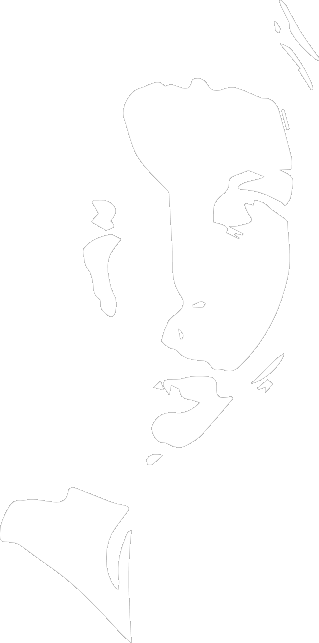
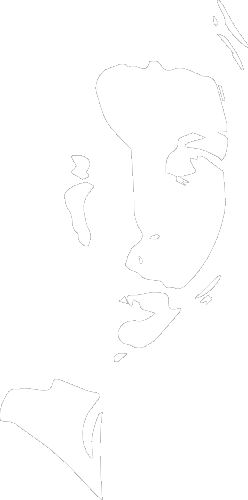
dc

diff --git a/css/photos.css b/css/photos.css
@@ -1,1 +1,1 @@
-.version.photos{color:#000012;background-color:#58CCB8;}#muse_css_mq{background-color:#FFFFFF;}#page{z-index:1;min-height:1438px;background-image:none;border-width:0px;border-color:#000000;background-color:transparent;width:100%;margin-left:auto;margin-right:auto;}#u3546-4{z-index:2;width:795px;min-height:75px;text-shadow:0px 0px 8px rgba(0,0,0,0.43);box-shadow:none;background-color:transparent;color:#FFFFFF;line-height:47px;font-size:39px;text-align:center;font-family:Verdana, Tahoma, Geneva, sans-serif;position:fixed;top:931px;left:50%;margin-left:-399px;}#u3550{z-index:6;width:773px;height:9px;background-color:#FFFFFF;border-radius:20px;position:fixed;top:1016px;left:50%;margin-left:-388px;}#u3787{z-index:7;width:60px;min-height:30px;border-width:0px;border-color:transparent;background-color:transparent;position:fixed;top:98px;left:50%;margin-left:-244px;}#u3788{z-index:8;width:50px;min-height:25px;border-width:0px;border-color:transparent;background-color:transparent;position:fixed;top:100px;left:50%;margin-left:-312px;}#u3797{z-index:9;width:875px;height:1342px;position:fixed;top:20px;left:50%;margin-left:-428px;}.ie #u3797{background-color:#FFFFFF;opacity:0.01;-ms-filter:"progid:DXImageTransform.Microsoft.Alpha(Opacity=1)";filter:alpha(opacity=1);}#u4406{z-index:10;width:681px;height:71px;border-style:solid;border-width:9px;border-color:#FFFFFF;background-color:transparent;border-radius:27px;position:fixed;top:912px;left:50%;margin-left:-349px;}#u8259{z-index:11;width:181px;-webkit-transition-duration:1s;-webkit-transition-delay:0s;-webkit-transition-timing-function:ease;transition-duration:1s;transition-delay:0s;transition-timing-function:ease;background-image:url("../images/blank.gif?crc=4208392903");background-color:transparent;position:fixed;top:1116px;left:50%;margin-left:-275px;}#u8259:hover{-webkit-transition-duration:1s;-webkit-transition-delay:0s;-webkit-transition-timing-function:ease;transition-duration:1s;transition-delay:0s;transition-timing-function:ease;opacity:0.2;-ms-filter:"progid:DXImageTransform.Microsoft.Alpha(Opacity=20)";filter:alpha(opacity=20);width:181px;min-height:0px;margin:0px 0px 0px -275px;}#u8259:active{-webkit-transition-duration:1s;-webkit-transition-delay:0s;-webkit-transition-timing-function:ease;transition-duration:1s;transition-delay:0s;transition-timing-function:ease;opacity:0.2;-ms-filter:"progid:DXImageTransform.Microsoft.Alpha(Opacity=20)";filter:alpha(opacity=20);width:181px;min-height:0px;margin:0px 0px 0px -275px;}#u8260{z-index:12;display:block;}#u8310{z-index:13;width:75px;-webkit-transition-duration:1s;-webkit-transition-delay:0s;-webkit-transition-timing-function:ease;transition-duration:1s;transition-delay:0s;transition-timing-function:ease;background-image:url("../images/blank.gif?crc=4208392903");background-color:transparent;-webkit-transform:matrix(-0.0349,-0.9994,0.9994,-0.0349,1,76);-ms-transform:matrix(-0.0349,-0.9994,0.9994,-0.0349,1,76);transform:matrix(-0.0349,-0.9994,0.9994,-0.0349,1,76);position:fixed;top:1254px;left:50%;margin-left:-404px;}#u8310:hover{-webkit-transition-duration:1s;-webkit-transition-delay:0s;-webkit-transition-timing-function:ease;transition-duration:1s;transition-delay:0s;transition-timing-function:ease;opacity:0.2;-ms-filter:"progid:DXImageTransform.Microsoft.Alpha(Opacity=20)";filter:alpha(opacity=20);width:75px;min-height:0px;margin:0px 0px 0px -404px;}#u8310:active{-webkit-transition-duration:1s;-webkit-transition-delay:0s;-webkit-transition-timing-function:ease;transition-duration:1s;transition-delay:0s;transition-timing-function:ease;opacity:0.2;-ms-filter:"progid:DXImageTransform.Microsoft.Alpha(Opacity=20)";filter:alpha(opacity=20);width:75px;min-height:0px;margin:0px 0px 0px -404px;}#u8311{z-index:14;display:block;}#u8292{z-index:15;width:113px;-webkit-transition-duration:1s;-webkit-transition-delay:0s;-webkit-transition-timing-function:ease;transition-duration:1s;transition-delay:0s;transition-timing-function:ease;background-image:url("../images/blank.gif?crc=4208392903");background-color:transparent;-webkit-transform:matrix(-0.9945,0.1045,-0.1045,-0.9945,119,107);-ms-transform:matrix(-0.9945,0.1045,-0.1045,-0.9945,119,107);transform:matrix(-0.9945,0.1045,-0.1045,-0.9945,119,107);position:fixed;top:1083px;left:50%;margin-left:284px;}#u8292:hover{-webkit-transition-duration:1s;-webkit-transition-delay:0s;-webkit-transition-timing-function:ease;transition-duration:1s;transition-delay:0s;transition-timing-function:ease;opacity:0.2;-ms-filter:"progid:DXImageTransform.Microsoft.Alpha(Opacity=20)";filter:alpha(opacity=20);width:113px;min-height:0px;margin:0px 0px 0px 284px;}#u8292:active{-webkit-transition-duration:1s;-webkit-transition-delay:0s;-webkit-transition-timing-function:ease;transition-duration:1s;transition-delay:0s;transition-timing-function:ease;opacity:0.2;-ms-filter:"progid:DXImageTransform.Microsoft.Alpha(Opacity=20)";filter:alpha(opacity=20);width:113px;min-height:0px;margin:0px 0px 0px 284px;}#u8293{z-index:16;display:block;}#u8301{z-index:17;width:113px;-webkit-transition-duration:1s;-webkit-transition-delay:0s;-webkit-transition-timing-function:ease;transition-duration:1s;transition-delay:0s;transition-timing-function:ease;background-image:url("../images/blank.gif?crc=4208392903");background-color:transparent;-webkit-transform:matrix(0.6157,0.788,-0.788,0.6157,66,-23);-ms-transform:matrix(0.6157,0.788,-0.788,0.6157,66,-23);transform:matrix(0.6157,0.788,-0.788,0.6157,66,-23);position:fixed;top:1276px;left:50%;margin-left:51px;}#u8301:hover{-webkit-transition-duration:1s;-webkit-transition-delay:0s;-webkit-transition-timing-function:ease;transition-duration:1s;transition-delay:0s;transition-timing-function:ease;opacity:0.2;-ms-filter:"progid:DXImageTransform.Microsoft.Alpha(Opacity=20)";filter:alpha(opacity=20);width:113px;min-height:0px;margin:0px 0px 0px 51px;}#u8301:active{-webkit-transition-duration:1s;-webkit-transition-delay:0s;-webkit-transition-timing-function:ease;transition-duration:1s;transition-delay:0s;transition-timing-function:ease;opacity:0.2;-ms-filter:"progid:DXImageTransform.Microsoft.Alpha(Opacity=20)";filter:alpha(opacity=20);width:113px;min-height:0px;margin:0px 0px 0px 51px;}#u8302{z-index:18;display:block;}#u8433{z-index:19;width:300px;min-height:150px;border-width:0px;border-color:transparent;background-color:transparent;color:#FFFFFF;font-size:11px;line-height:13px;font-family:open-sans, sans-serif;font-weight:300;position:fixed;top:1048px;left:50%;margin-left:-58px;}#u8640{z-index:20;width:234px;background-color:transparent;position:fixed;top:150px;left:50%;margin-left:-328px;}#u8636{z-index:21;display:block;}#u8794{background-color:transparent;position:relative;left:-50%;margin-left:178px;width:100%;}#u8790{z-index:23;display:block;width:100%;}#u8794-wrapper{position:fixed;top:486px;z-index:22;left:50%;margin-left:-10px;width:30.69%;}.css_verticalspacer .verticalspacer{height:calc(100vh - 1438px);}.html{background-color:#FF0000;}body{position:relative;min-width:960px;}
+.version.photos{color:#0000E9;background-color:#6D90F7;}#muse_css_mq{background-color:#FFFFFF;}#page{z-index:1;min-height:1313px;background-image:none;border-width:0px;border-color:#000000;background-color:transparent;padding-top:98px;padding-bottom:207px;width:100%;margin-left:auto;margin-right:auto;}#pu3788{z-index:8;width:0.01px;margin-left:268px;}#u3788{z-index:8;width:50px;min-height:25px;border-width:0px;border-color:transparent;background-color:transparent;position:relative;margin-right:-10000px;margin-top:2px;}#u3787{z-index:7;width:60px;min-height:30px;border-width:0px;border-color:transparent;background-color:transparent;position:relative;margin-right:-10000px;left:68px;}#pu8601{z-index:19;margin-top:-3px;width:68.02%;margin-left:16%;}#u8601{z-index:19;width:236px;background-color:transparent;position:relative;margin-right:-10000px;margin-left:50%;left:-380.5px;}#u8597{z-index:20;display:block;}#u8612{z-index:21;width:357px;background-color:transparent;position:relative;margin-right:-10000px;margin-top:315px;margin-left:50%;left:52.5px;}#u8608{z-index:22;display:block;}#pu3546-4{z-index:2;margin-top:259px;width:68.54%;margin-left:15.74%;}#u3546-4{z-index:2;width:795px;min-height:71px;background-color:transparent;color:#FFFFFF;line-height:36px;font-size:30px;text-align:center;font-family:Verdana, Tahoma, Geneva, sans-serif;position:relative;margin-right:-10000px;margin-top:11px;margin-left:50%;left:-399.5px;}#u4406{z-index:9;width:419px;height:63px;border-style:solid;border-width:9px;border-color:#FFFFFF;background-color:transparent;border-radius:27px;position:relative;margin-right:-10000px;margin-top:-9px;margin-left:50%;left:-271.5px;}#u3550{z-index:6;width:773px;height:9px;background-color:#FFFFFF;border-radius:20px;margin-top:12px;position:relative;margin-left:50%;left:-388px;}#pu8310{z-index:12;margin-top:90px;width:67.59%;margin-left:16.21%;}#u8310{z-index:12;width:75px;-webkit-transition-duration:1s;-webkit-transition-delay:0s;-webkit-transition-timing-function:ease;transition-duration:1s;transition-delay:0s;transition-timing-function:ease;background-image:url("../images/blank.gif?crc=4208392903");background-color:transparent;-webkit-transform:matrix(-0.0349,-0.9994,0.9994,-0.0349,1,76);-ms-transform:matrix(-0.0349,-0.9994,0.9994,-0.0349,1,76);transform:matrix(-0.0349,-0.9994,0.9994,-0.0349,1,76);position:relative;margin-right:-10000px;margin-top:172px;margin-left:50%;left:-398px;}#u8310:hover{-webkit-transition-duration:1s;-webkit-transition-delay:0s;-webkit-transition-timing-function:ease;transition-duration:1s;transition-delay:0s;transition-timing-function:ease;opacity:0.2;-ms-filter:"progid:DXImageTransform.Microsoft.Alpha(Opacity=20)";filter:alpha(opacity=20);width:75px;min-height:0px;left:-398px;margin:172px -10000px 0px 50%;}#u8310:active{-webkit-transition-duration:1s;-webkit-transition-delay:0s;-webkit-transition-timing-function:ease;transition-duration:1s;transition-delay:0s;transition-timing-function:ease;opacity:0.2;-ms-filter:"progid:DXImageTransform.Microsoft.Alpha(Opacity=20)";filter:alpha(opacity=20);width:75px;min-height:0px;left:-398px;margin:172px -10000px 0px 50%;}#u8311{z-index:13;display:block;}#u8259{z-index:10;width:181px;-webkit-transition-duration:1s;-webkit-transition-delay:0s;-webkit-transition-timing-function:ease;transition-duration:1s;transition-delay:0s;transition-timing-function:ease;background-image:url("../images/blank.gif?crc=4208392903");background-color:transparent;position:relative;margin-right:-10000px;margin-top:52px;margin-left:50%;left:-279px;}#u8259:hover{-webkit-transition-duration:1s;-webkit-transition-delay:0s;-webkit-transition-timing-function:ease;transition-duration:1s;transition-delay:0s;transition-timing-function:ease;opacity:0.2;-ms-filter:"progid:DXImageTransform.Microsoft.Alpha(Opacity=20)";filter:alpha(opacity=20);width:181px;min-height:0px;left:-279px;margin:52px -10000px 0px 50%;}#u8259:active{-webkit-transition-duration:1s;-webkit-transition-delay:0s;-webkit-transition-timing-function:ease;transition-duration:1s;transition-delay:0s;transition-timing-function:ease;opacity:0.2;-ms-filter:"progid:DXImageTransform.Microsoft.Alpha(Opacity=20)";filter:alpha(opacity=20);width:181px;min-height:0px;left:-279px;margin:52px -10000px 0px 50%;}#u8260{z-index:11;display:block;}#pu8433{z-index:18;margin-right:-10000px;width:38.27%;margin-left:30.87%;}#u8433{z-index:18;width:300px;min-height:150px;border-width:0px;border-color:transparent;background-color:transparent;color:#FFFFFF;font-size:11px;line-height:13px;font-family:open-sans, sans-serif;font-weight:300;position:relative;margin-left:50%;left:-74px;}#u8301{z-index:16;width:113px;-webkit-transition-duration:1s;-webkit-transition-delay:0s;-webkit-transition-timing-function:ease;transition-duration:1s;transition-delay:0s;transition-timing-function:ease;background-image:url("../images/blank.gif?crc=4208392903");background-color:transparent;-webkit-transform:matrix(0.6157,0.788,-0.788,0.6157,66,-23);-ms-transform:matrix(0.6157,0.788,-0.788,0.6157,66,-23);transform:matrix(0.6157,0.788,-0.788,0.6157,66,-23);margin-top:74px;margin-bottom:23px;position:relative;margin-left:50%;left:52px;}#u8301:hover{-webkit-transition-duration:1s;-webkit-transition-delay:0s;-webkit-transition-timing-function:ease;transition-duration:1s;transition-delay:0s;transition-timing-function:ease;opacity:0.2;-ms-filter:"progid:DXImageTransform.Microsoft.Alpha(Opacity=20)";filter:alpha(opacity=20);width:113px;min-height:0px;left:52px;margin:74px 0px 23px 50%;}#u8301:active{-webkit-transition-duration:1s;-webkit-transition-delay:0s;-webkit-transition-timing-function:ease;transition-duration:1s;transition-delay:0s;transition-timing-function:ease;opacity:0.2;-ms-filter:"progid:DXImageTransform.Microsoft.Alpha(Opacity=20)";filter:alpha(opacity=20);width:113px;min-height:0px;left:52px;margin:74px 0px 23px 50%;}#u8302{z-index:17;display:block;}#u8292{z-index:14;width:113px;-webkit-transition-duration:1s;-webkit-transition-delay:0s;-webkit-transition-timing-function:ease;transition-duration:1s;transition-delay:0s;transition-timing-function:ease;background-image:url("../images/blank.gif?crc=4208392903");background-color:transparent;-webkit-transform:matrix(-0.9945,0.1045,-0.1045,-0.9945,119,107);-ms-transform:matrix(-0.9945,0.1045,-0.1045,-0.9945,119,107);transform:matrix(-0.9945,0.1045,-0.1045,-0.9945,119,107);position:relative;margin-right:-10000px;margin-top:30px;margin-left:50%;left:267px;}#u8292:hover{-webkit-transition-duration:1s;-webkit-transition-delay:0s;-webkit-transition-timing-function:ease;transition-duration:1s;transition-delay:0s;transition-timing-function:ease;opacity:0.2;-ms-filter:"progid:DXImageTransform.Microsoft.Alpha(Opacity=20)";filter:alpha(opacity=20);width:113px;min-height:0px;left:267px;margin:30px -10000px 0px 50%;}#u8292:active{-webkit-transition-duration:1s;-webkit-transition-delay:0s;-webkit-transition-timing-function:ease;transition-duration:1s;transition-delay:0s;transition-timing-function:ease;opacity:0.2;-ms-filter:"progid:DXImageTransform.Microsoft.Alpha(Opacity=20)";filter:alpha(opacity=20);width:113px;min-height:0px;left:267px;margin:30px -10000px 0px 50%;}#u8293{z-index:15;display:block;}.css_verticalspacer .verticalspacer{height:calc(100vh - 1661px);}.html{background-color:#FF0000;}body{position:relative;min-width:960px;padding-bottom:44px;}

diff --git a/photos.html b/photos.html
@@ -18,7 +18,7 @@ if(typeof Muse == "undefined") window.Muse = {}; window.Muse.assets = {"required
   <title>PHOTOS</title>
   <!-- CSS -->
   <link rel="stylesheet" type="text/css" href="css/site_global.css?crc=4162518342"/>
-  <link rel="stylesheet" type="text/css" href="css/photos.css?crc=307809464" id="pagesheet"/>
+  <link rel="stylesheet" type="text/css" href="css/photos.css?crc=3916271863" id="pagesheet"/>
   <!-- Other scripts -->
   <script type="text/javascript">
    var __adobewebfontsappname__ = "muse";
@@ -85,7 +85,7 @@ visibility: visible !important;
           position:absolute;
     left:50%;
     top:50%;
-  font-size: 13px;
+  font-size: 12px;
   -webkit-animation-delay: -0.16s;
   animation-delay: -0.16s;
 }
@@ -146,7 +146,7 @@ visibility: visible !important;
   animation: load2 2s infinite ease 1.5s;
 }
 .loader2 {
-  font-size: 13px;
+  font-size: 12px;
 
  margin-top: -5em;
     margin-left: -4.5em;
@@ -307,7 +307,7 @@ body { overflow: hidden;}
   z-index: 2000;
   top: 0;
   left: 0;
-  height: 13px;
+  height: 12px;
   overflow: hidden;
 
   -webkit-transition: width 1s;
@@ -441,7 +441,7 @@ z-index: 99999999;
   position: absolute;
   left: 3px;
   top: 3px;
-  height: 13px;
+  height: 12px;
   background: #FFFFFF;
   color: #FFFFFF;
   line-height: 60px;
@@ -473,7 +473,7 @@ z-index: 99999999;
   right: 0;
   bottom: 0;
   height: 5px;
-  width:  13em;
+  width:  12em;
   background: transparent;
   border: 1px solid #FFFFFF;
 }
@@ -497,7 +497,7 @@ z-index: 99999999;
   -o-transform: translate3d(0, 0, 0);
   transform: translate3d(0, 0, 0);
 
-  max-width: 13em;
+  max-width: 12em;
   position: fixed;
   z-index: 2000;
   display: block;
@@ -532,34 +532,41 @@ z-index: 99999999;
 
 
 
-  <div class="clearfix borderbox" id="page"><!-- group -->
-   <div class="clearfix" id="u3546-4"><!-- content -->
-    <p>place for photos</p>
-   </div>
-   <div class="rounded-corners" id="u3550"><!-- simple frame --></div>
-   <div class="size_fixed" id="u3787" data-sizePolicy="fixed" data-pintopage="topcenter"><!-- custom html -->
+  <div class="clearfix borderbox" id="page"><!-- column -->
+   <div class="clearfix colelem" id="pu3788"><!-- group -->
+    <div class="size_fixed grpelem" id="u3788" data-sizePolicy="fixed" data-pintopage="page_fixedLeft"><!-- custom html -->
 
 
-   </div>
-   <div class="size_fixed" id="u3788" data-sizePolicy="fixed" data-pintopage="topcenter"><!-- custom html -->
+    </div>
+    <div class="size_fixed grpelem" id="u3787" data-sizePolicy="fixed" data-pintopage="page_fixedLeft"><!-- custom html -->
 
 
+    </div>
    </div>
-   <div id="u3797"><!-- content --></div>
-   <div class="rounded-corners" id="u4406"><!-- simple frame --></div>
-   <div class="transition clip_frame" id="u8259"><!-- svg -->
-    <img class="svg" id="u8260" src="images/%d0%b7%d0%b8%d0%b3-%d0%b7%d0%b0%d0%b3.svg?crc=233306729" width="181" height="181" alt="" data-mu-svgfallback="images/%d0%b7%d0%b8%d0%b3%20%d0%b7%d0%b0%d0%b3_poster_.png?crc=78062643"/>
+   <div class="clearfix colelem" id="pu8601"><!-- group -->
+    <div class="clip_frame grpelem" id="u8601" data-sizePolicy="fixed" data-pintopage="page_fixedCenter" data-leftAdjustmentDoneBy="pu8601"><!-- svg -->
+     <img class="svg" id="u8597" src="images/%d0%b4%d0%b5%d0%b2%d1%83%d1%88%d0%ba%d0%b0-3.svg?crc=143937273" width="236" height="476" alt="" data-mu-svgfallback="images/%d0%b4%d0%b5%d0%b2%d1%83%d1%88%d0%ba%d0%b0%203_poster_.png?crc=173586365"/>
+    </div>
+    <div class="clip_frame grpelem" id="u8612" data-sizePolicy="fixed" data-pintopage="page_fixedCenter" data-leftAdjustmentDoneBy="pu8601"><!-- svg -->
+     <img class="svg" id="u8608" src="images/minimal.svg?crc=4104617138" width="357" height="43" alt="" data-mu-svgfallback="images/minimal_poster_.png?crc=355578067"/>
+    </div>
    </div>
-   <div class="transition clip_frame" id="u8310" data-mu-ie-matrix="progid:DXImageTransform.Microsoft.Matrix(M11=-0.0349,M12=0.9994,M21=-0.9994,M22=-0.0349,SizingMethod='auto expand')" data-mu-ie-matrix-dx="-1" data-mu-ie-matrix-dy="-1"><!-- svg -->
-    <img class="svg" id="u8311" src="images/%d0%b7%d0%b8%d0%b3-%d0%b7%d0%b0%d0%b3.svg?crc=233306729" width="75" height="75" alt="" data-mu-svgfallback="images/%d0%b7%d0%b8%d0%b3%20%d0%b7%d0%b0%d0%b3_poster_.png?crc=78062643"/>
+   <div class="clearfix colelem" id="pu3546-4"><!-- group -->
+    <div class="clearfix grpelem" id="u3546-4" data-sizePolicy="fixed" data-pintopage="page_fixedCenter" data-leftAdjustmentDoneBy="pu3546-4"><!-- content -->
+     <p>place for photos</p>
+    </div>
+    <div class="rounded-corners grpelem" id="u4406" data-sizePolicy="fixed" data-pintopage="page_fixedCenter" data-leftAdjustmentDoneBy="pu3546-4"><!-- simple frame --></div>
    </div>
-   <div class="transition clip_frame" id="u8292" data-mu-ie-matrix="progid:DXImageTransform.Microsoft.Matrix(M11=-0.9945,M12=-0.1045,M21=0.1045,M22=-0.9945,SizingMethod='auto expand')" data-mu-ie-matrix-dx="-6" data-mu-ie-matrix-dy="-6"><!-- svg -->
-    <img class="svg" id="u8293" src="images/%d0%b7%d0%b8%d0%b3-%d0%b7%d0%b0%d0%b3.svg?crc=233306729" width="113" height="113" alt="" data-mu-svgfallback="images/%d0%b7%d0%b8%d0%b3%20%d0%b7%d0%b0%d0%b3_poster_.png?crc=78062643"/>
-   </div>
-   <div class="transition clip_frame" id="u8301" data-mu-ie-matrix="progid:DXImageTransform.Microsoft.Matrix(M11=0.6157,M12=-0.788,M21=0.788,M22=0.6157,SizingMethod='auto expand')" data-mu-ie-matrix-dx="-23" data-mu-ie-matrix-dy="-23"><!-- svg -->
-    <img class="svg" id="u8302" src="images/%d0%b7%d0%b8%d0%b3-%d0%b7%d0%b0%d0%b3.svg?crc=233306729" width="113" height="113" alt="" data-mu-svgfallback="images/%d0%b7%d0%b8%d0%b3%20%d0%b7%d0%b0%d0%b3_poster_.png?crc=78062643"/>
-   </div>
-   <div class="size_fixed" id="u8433" data-sizePolicy="fixed" data-pintopage="topcenter"><!-- custom html -->
+   <div class="rounded-corners colelem" id="u3550" data-sizePolicy="fixed" data-pintopage="page_fixedCenter"><!-- simple frame --></div>
+   <div class="clearfix colelem" id="pu8310"><!-- group -->
+    <div class="transition clip_frame grpelem" id="u8310" data-mu-ie-matrix="progid:DXImageTransform.Microsoft.Matrix(M11=-0.0349,M12=0.9994,M21=-0.9994,M22=-0.0349,SizingMethod='auto expand')" data-mu-ie-matrix-dx="-1" data-mu-ie-matrix-dy="-1" data-sizePolicy="fixed" data-pintopage="page_fixedCenter" data-leftAdjustmentDoneBy="pu8310"><!-- svg -->
+     <img class="svg" id="u8311" src="images/%d0%b7%d0%b8%d0%b3-%d0%b7%d0%b0%d0%b3.svg?crc=233306729" width="75" height="75" alt="" data-mu-svgfallback="images/%d0%b7%d0%b8%d0%b3%20%d0%b7%d0%b0%d0%b3_poster_.png?crc=415688036"/>
+    </div>
+    <div class="transition clip_frame grpelem" id="u8259" data-sizePolicy="fixed" data-pintopage="page_fixedCenter" data-leftAdjustmentDoneBy="pu8310"><!-- svg -->
+     <img class="svg" id="u8260" src="images/%d0%b7%d0%b8%d0%b3-%d0%b7%d0%b0%d0%b3.svg?crc=233306729" width="181" height="181" alt="" data-mu-svgfallback="images/%d0%b7%d0%b8%d0%b3%20%d0%b7%d0%b0%d0%b3_poster_.png?crc=415688036"/>
+    </div>
+    <div class="clearfix grpelem" id="pu8433"><!-- column -->
+     <div class="size_fixed colelem" id="u8433" data-sizePolicy="fixed" data-pintopage="page_fixedCenter" data-leftAdjustmentDoneBy="pu8433"><!-- custom html -->
 
 
 
@@ -570,16 +577,16 @@ z-index: 99999999;
 </div>
 
 
-   </div>
-   <div class="clip_frame" id="u8640"><!-- svg -->
-    <img class="svg" id="u8636" src="images/%d0%b4%d0%b5%d0%b2%d1%83%d1%88%d0%ba%d0%b0-3.svg?crc=143937273" width="234" height="472" alt="" data-mu-svgfallback="images/%d0%b4%d0%b5%d0%b2%d1%83%d1%88%d0%ba%d0%b0%203_poster_.png?crc=4066762231"/>
-   </div>
-   <div id="u8794-wrapper">
-    <div class="clip_frame" id="u8794"><!-- svg -->
-     <img class="svg svg_mar" id="u8790" src="images/minimal.svg?crc=4104617138" onload="this.style.height=(this.offsetWidth*42.85185185185186/355.9560493827164)+'px'" alt="" data-mu-svgfallback="images/minimal_poster_.png?crc=346820506" data-heightwidthratio="0.12078651685393259" data-image-width="356" data-image-height="43"/>
+     </div>
+     <div class="transition clip_frame colelem" id="u8301" data-mu-ie-matrix="progid:DXImageTransform.Microsoft.Matrix(M11=0.6157,M12=-0.788,M21=0.788,M22=0.6157,SizingMethod='auto expand')" data-mu-ie-matrix-dx="-23" data-mu-ie-matrix-dy="-23" data-sizePolicy="fixed" data-pintopage="page_fixedCenter" data-leftAdjustmentDoneBy="pu8433"><!-- svg -->
+      <img class="svg" id="u8302" src="images/%d0%b7%d0%b8%d0%b3-%d0%b7%d0%b0%d0%b3.svg?crc=233306729" width="113" height="113" alt="" data-mu-svgfallback="images/%d0%b7%d0%b8%d0%b3%20%d0%b7%d0%b0%d0%b3_poster_.png?crc=415688036"/>
+     </div>
+    </div>
+    <div class="transition clip_frame grpelem" id="u8292" data-mu-ie-matrix="progid:DXImageTransform.Microsoft.Matrix(M11=-0.9945,M12=-0.1045,M21=0.1045,M22=-0.9945,SizingMethod='auto expand')" data-mu-ie-matrix-dx="-6" data-mu-ie-matrix-dy="-6" data-sizePolicy="fixed" data-pintopage="page_fixedCenter" data-leftAdjustmentDoneBy="pu8310"><!-- svg -->
+     <img class="svg" id="u8293" src="images/%d0%b7%d0%b8%d0%b3-%d0%b7%d0%b0%d0%b3.svg?crc=233306729" width="113" height="113" alt="" data-mu-svgfallback="images/%d0%b7%d0%b8%d0%b3%20%d0%b7%d0%b0%d0%b3_poster_.png?crc=415688036"/>
     </div>
    </div>
-   <div class="verticalspacer" data-offset-top="0" data-content-above-spacer="0" data-content-below-spacer="1438" data-sizePolicy="fixed" data-pintopage="page_fixedLeft"></div>
+   <div class="verticalspacer" data-offset-top="1411" data-content-above-spacer="1411" data-content-below-spacer="250" data-sizePolicy="fixed" data-pintopage="page_fixedLeft"></div>
   </div>
   <!-- JS includes -->
   <script type="text/javascript">
@@ -615,13 +622,6 @@ Muse.Utils.transformMarkupToFixBrowserProblems();/* body */
 
   <!--HTML Widget code-->
 
-<script type="text/javascript">
-$(document).ready(function() {
-	$("body").attr("oncopy","return false");
-	$("body").attr("oncontextmenu","return false")
-});
-</script>
-
 <script>
 $(document).ready(function(){
     $(document).bind("contextmenu",function(e){
@@ -637,6 +637,13 @@ $(document).ready(function(){
 });
 </script>
 
+
+<script type="text/javascript">
+$(document).ready(function() {
+	$("body").attr("oncopy","return false");
+	$("body").attr("oncontextmenu","return false")
+});
+</script>
 
 
 <script type="text/javascript">

diff --git a/index.html b/index.html
@@ -84,7 +84,7 @@ visibility: visible !important;
           position:absolute;
     left:50%;
     top:50%;
-  font-size: 2px;
+  font-size: 8px;
   -webkit-animation-delay: -0.16s;
   animation-delay: -0.16s;
 }
@@ -145,7 +145,7 @@ visibility: visible !important;
   animation: load2 2s infinite ease 1.5s;
 }
 .loader2 {
-  font-size: 2px;
+  font-size: 8px;
 
  margin-top: -5em;
     margin-left: -4.5em;
@@ -306,7 +306,7 @@ body { overflow: hidden;}
   z-index: 2000;
   top: 0;
   left: 0;
-  height: 2px;
+  height: 8px;
   overflow: hidden;
 
   -webkit-transition: width 1s;
@@ -440,7 +440,7 @@ z-index: 99999999;
   position: absolute;
   left: 3px;
   top: 3px;
-  height: 2px;
+  height: 8px;
   background: #000000;
   color: #000000;
   line-height: 60px;
@@ -472,7 +472,7 @@ z-index: 99999999;
   right: 0;
   bottom: 0;
   height: 5px;
-  width:  2em;
+  width:  8em;
   background: transparent;
   border: 1px solid #000000;
 }
@@ -496,7 +496,7 @@ z-index: 99999999;
   -o-transform: translate3d(0, 0, 0);
   transform: translate3d(0, 0, 0);
 
-  max-width: 2em;
+  max-width: 8em;
   position: fixed;
   z-index: 2000;
   display: block;
